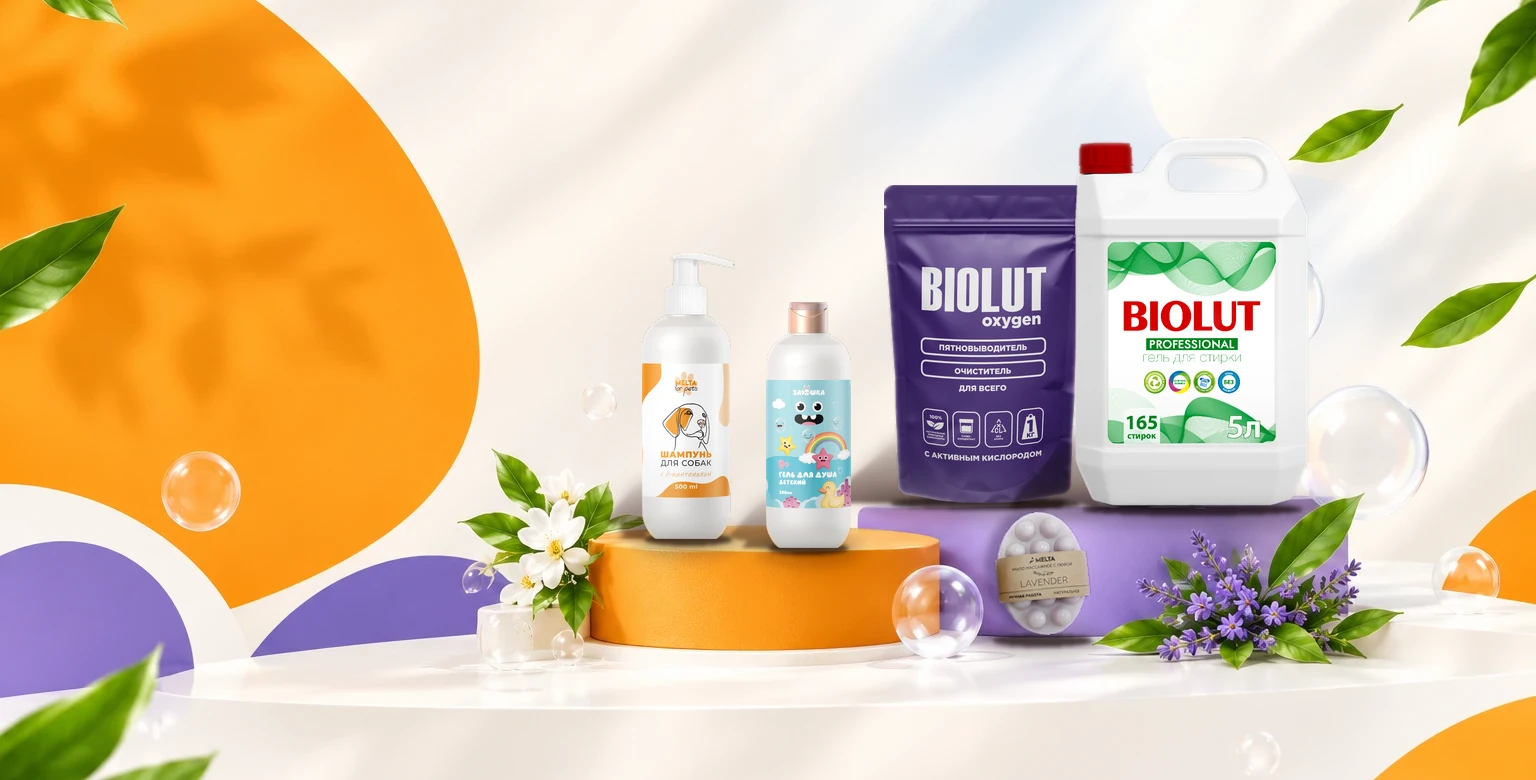
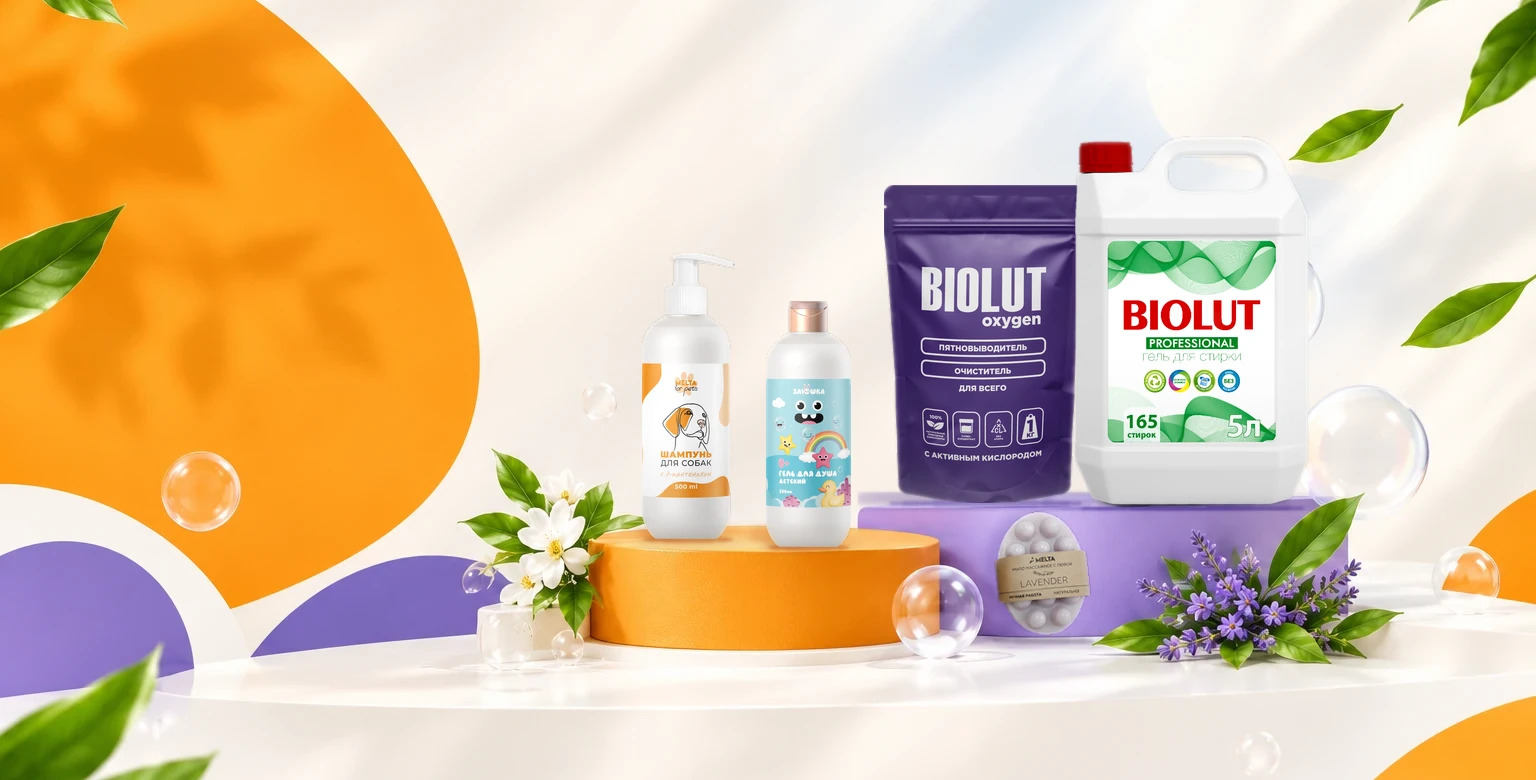
Вариант 7: мягкие тени в цвет подиумов на первом слайде
Claude-Session: https://claude.ai/code/session_01NrjMZLUvLXUEoWuvL9qRjd

diff --git a/v7/index.html b/v7/index.html
@@ -48,7 +48,7 @@
 <main id="main">
 
   <section class="hero hero--slide">
-    <img class="hero__bg" src="../assets/products/hero-slide-1x.webp?v=5" alt="Продукция Melta на подиумах: шампунь для собак, детский гель «Заюшка», Biolut Oxygen, гель для стирки Biolut 5 л и мыло Lavender" width="1536" height="780">
+    <img class="hero__bg" src="../assets/products/hero-slide-1x.webp?v=6" alt="Продукция Melta на подиумах: шампунь для собак, детский гель «Заюшка», Biolut Oxygen, гель для стирки Biolut 5 л и мыло Lavender" width="1536" height="780">
     <div class="hero__content">
       <div class="container">
         <div class="hero__text">
